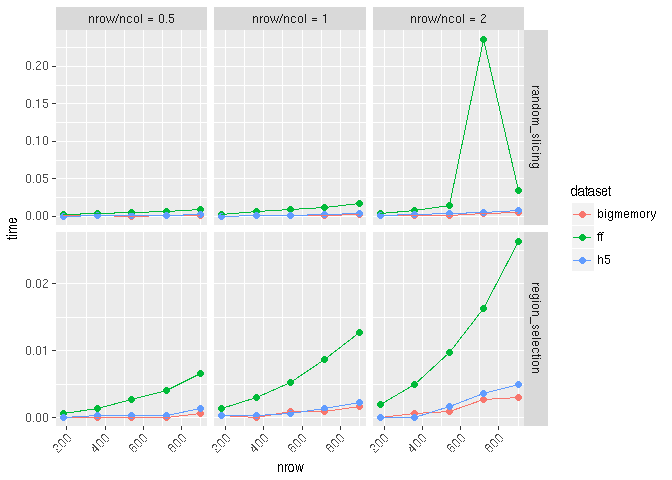
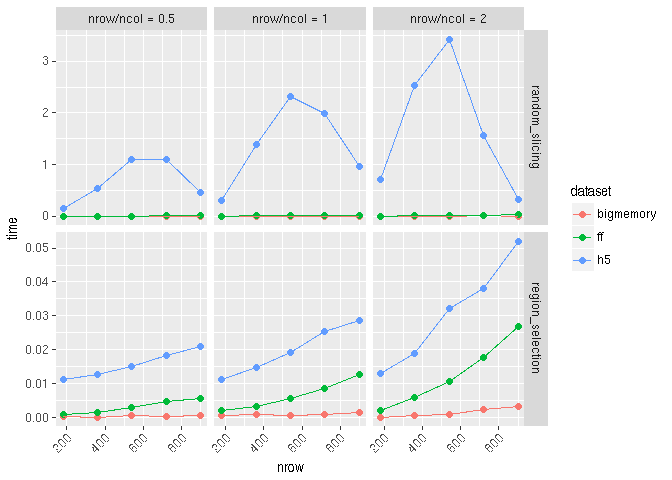
update README

diff --git a/README.md b/README.md
@@ -39,7 +39,8 @@ h5createFile(h5.file)
 h5createDataset(h5.file, "data", dims, storage.mode = "double", chunk=c(100,100), level=7)
 h5write(mat, h5.file,"data")
 utils:::format.object_size(file.size(h5.file), units = "Mb")
-hm = h5read(h5.file,"data")
+library(HDF5Array)
+hm = HDF5Array(h5.file, "data")
 
 library(ff)
 ff.file <- tempfile()
@@ -79,12 +80,12 @@ head(res)
 ```
 
     ##     time   dataset timeid nrow nrow/ncol           task
-    ## 1: 0.001 bigmemory      1  180       0.5 random_slicing
+    ## 1: 0.002 bigmemory      1  180       0.5 random_slicing
     ## 2: 0.002        ff      1  180       0.5 random_slicing
-    ## 3: 0.001        h5      1  180       0.5 random_slicing
-    ## 4: 0.000 bigmemory      2  180       0.5 random_slicing
+    ## 3: 0.149        h5      1  180       0.5 random_slicing
+    ## 4: 0.001 bigmemory      2  180       0.5 random_slicing
     ## 5: 0.002        ff      2  180       0.5 random_slicing
-    ## 6: 0.000        h5      2  180       0.5 random_slicing
+    ## 6: 0.164        h5      2  180       0.5 random_slicing
 
 Quick plot
 ----------
